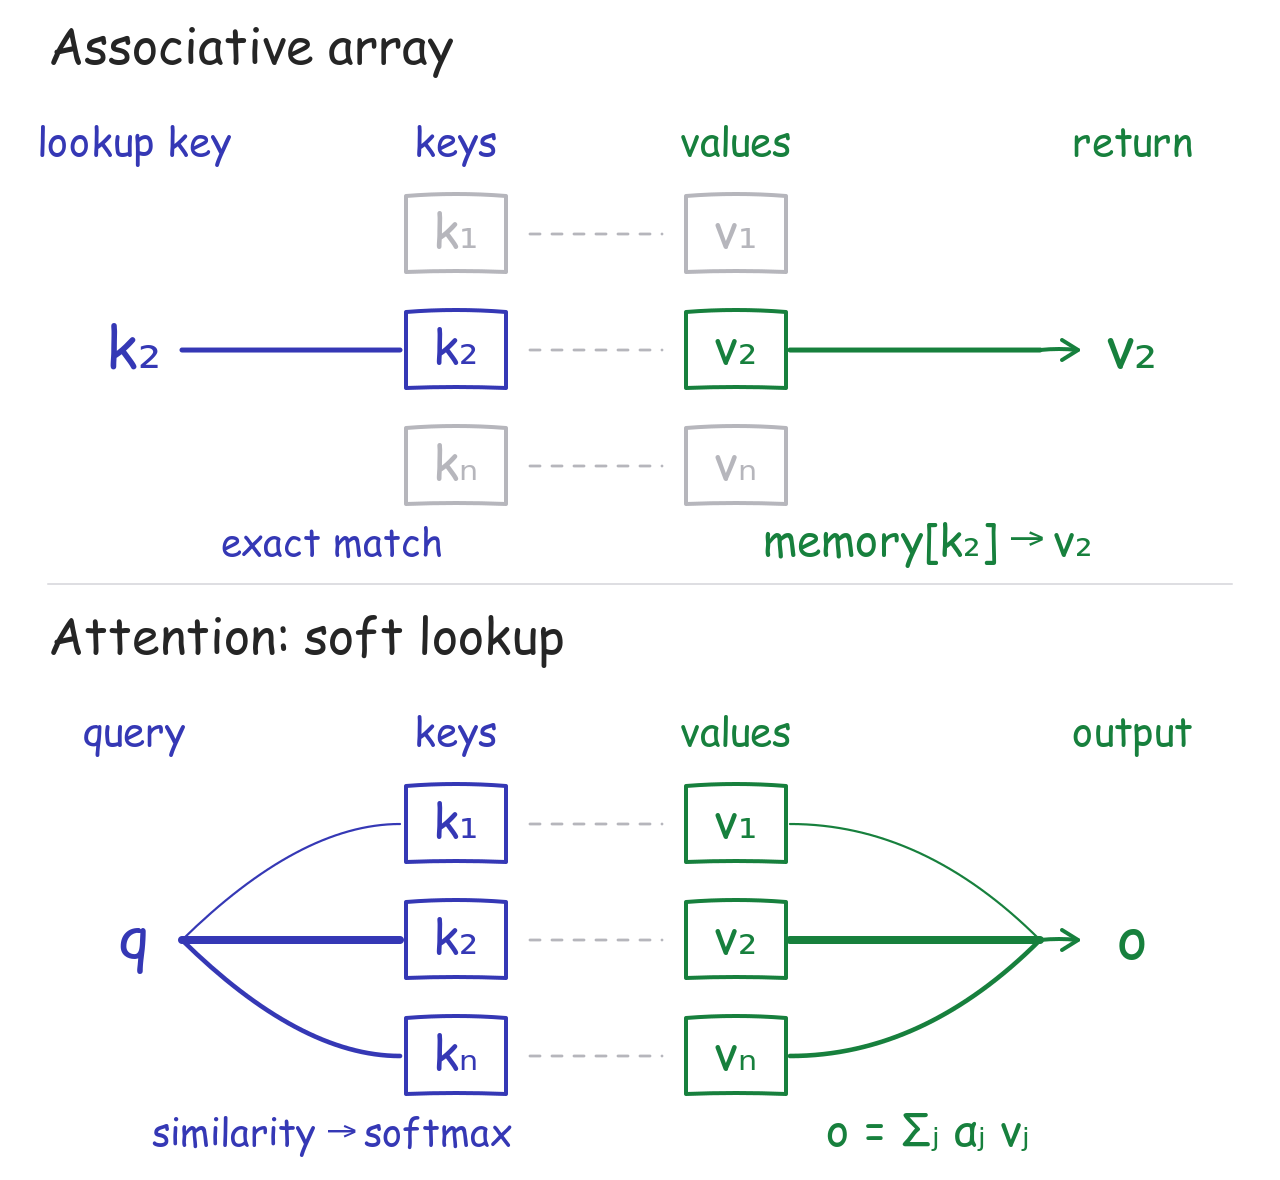
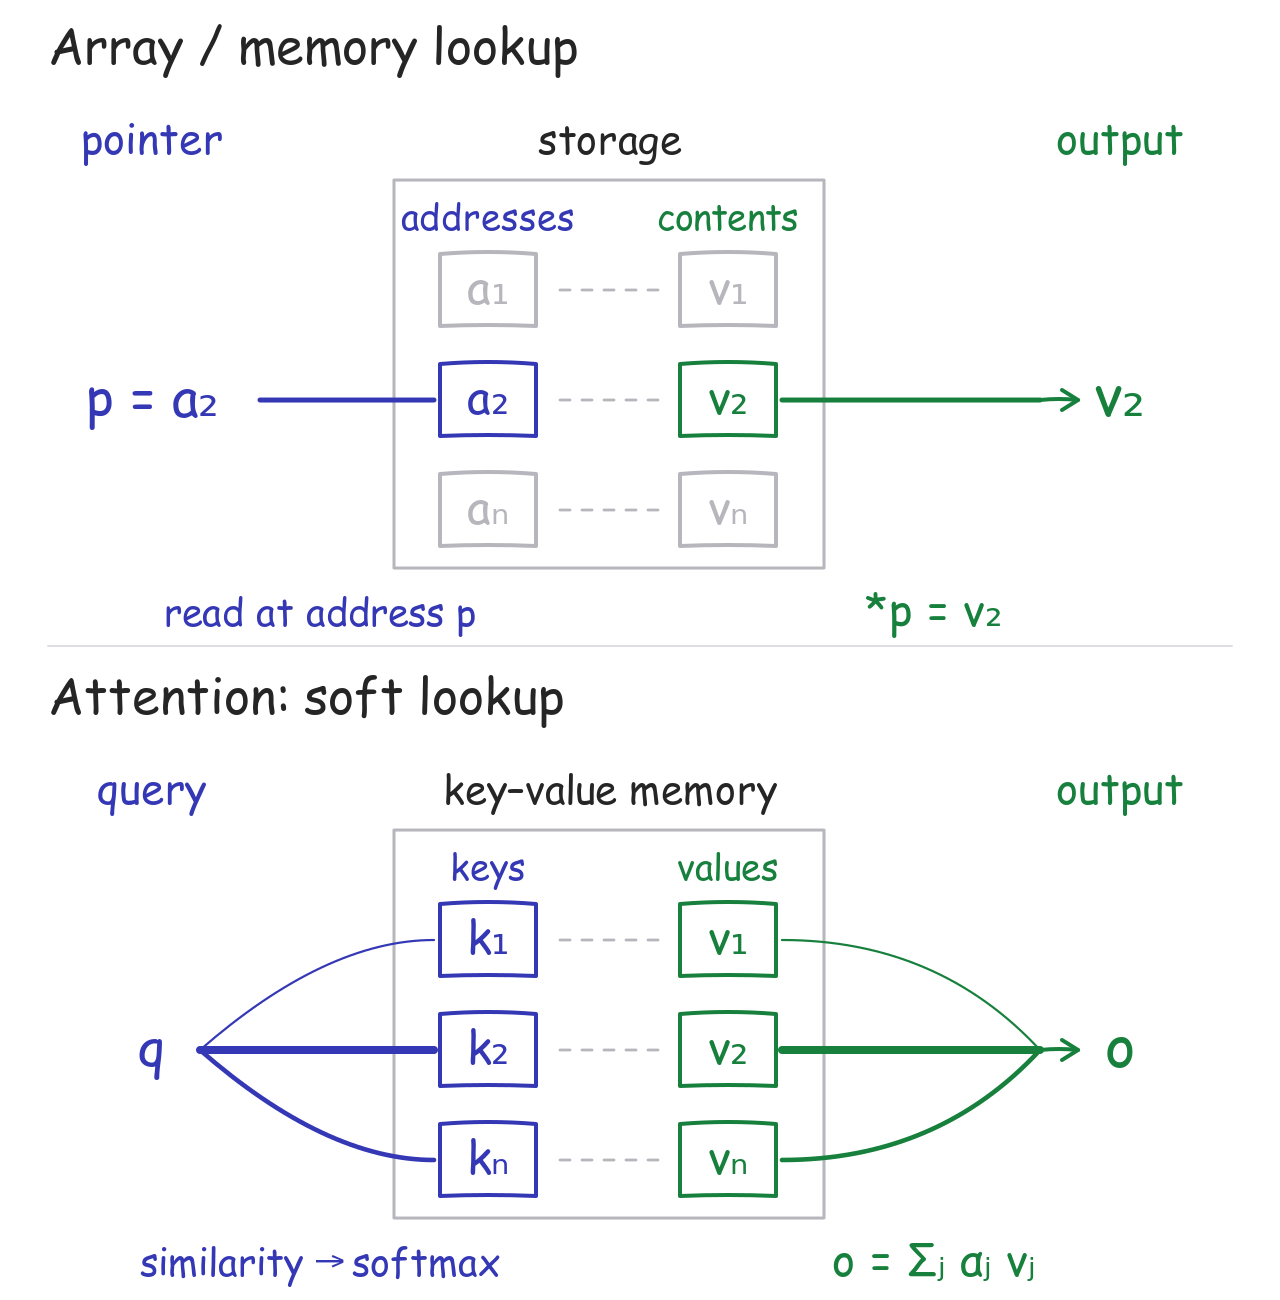
Map pointer and storage roles to attention queries keys and values

diff --git a/tools/draw_series_figures.py b/tools/draw_series_figures.py
@@ -145,32 +145,34 @@ def convex():
 
 
 def array_attention():
-    s = start('An associative array lookup and an attention lookup',
-              'Two aligned flows use paired keys and values. An associative array retrieves v 2 by exact matching k 2. Attention compares query q with all keys and softly combines their paired values into output o. Keys and values are associated entries; the connecting lines do not mean that values are computed from keys.', 590)
-    for offset, soft in [(0, False), (295, True)]:
+    s = start('Pointer, storage, and output as a soft lookup',
+              'Two aligned flows compare addressed memory with attention. A pointer p holding address a 2 selects storage contents v 2. Attention uses query q to score stored keys and blend their associated values. The requested address corresponds to the query, stored addresses to keys, and stored contents to values. Storage contains both the addressing scheme and its associated contents; the attention output is a weighted blend, not necessarily one stored value.', 650)
+    for offset, soft in [(0, False), (325, True)]:
         s.append(f'<g transform="translate(0 {offset})">')
-        text(s, 24, 32, 'Attention: soft lookup' if soft else 'Associative array', size=25, anchor='start')
-        for x, label, color in [(67, 'query' if soft else 'lookup key', BLUE),
-                                 (228, 'keys', BLUE), (368, 'values', GREEN),
-                                 (566, 'output' if soft else 'return', GREEN)]:
-            text(s, x, 78, label, color, 20)
+        text(s, 24, 32, 'Attention: soft lookup' if soft else 'Array / memory lookup', size=25, anchor='start')
+        text(s, 76, 77, 'query' if soft else 'pointer', BLUE, 21)
+        text(s, 305, 77, 'key–value memory' if soft else 'storage', size=20)
+        text(s, 560, 77, 'output', GREEN, 21)
+        path(s, 'M197 90 H412 V284 H197 Z', '#b6b6bc', 1.5)
+        text(s, 244, 115, 'keys' if soft else 'addresses', BLUE, 18)
+        text(s, 364, 115, 'values' if soft else 'contents', GREEN, 18)
         widths = [1.1, 4, 2.3] if soft else [0, 2.5, 0]
-        for j, (y, sub) in enumerate(zip([117, 175, 233], ['₁', '₂', 'ₙ'])):
+        for j, (y, sub) in enumerate(zip([145, 200, 255], ['₁', '₂', 'ₙ'])):
             active = widths[j] > 0
             color_k, color_v = (BLUE, GREEN) if active else (FAINT, FAINT)
             if active:
-                path(s, f'M91 175 Q150 {y} 200 {y}', BLUE, widths[j])
-                path(s, f'M395 {y} Q462 {y} 520 175', GREEN, widths[j])
-            box(s, 203, y-19, 50, 38, ['k'+sub], color_k, size=24)
-            path(s, f'M265 {y} H331', FAINT, 1.4, dash=True)
-            box(s, 343, y-19, 50, 38, ['v'+sub], color_v, size=24)
-        arrow(s, 520, 175, 539, 175, GREEN)
-        text(s, 67, 184, 'q' if soft else 'k₂', BLUE, 29)
-        text(s, 566, 184, 'o' if soft else 'v₂', GREEN, 29)
-        text(s, 166, 278, 'similarity → softmax' if soft else 'exact match', BLUE, 19)
-        text(s, 464, 278, 'o = Σⱼ αⱼ vⱼ' if soft else 'memory[k₂] → v₂', GREEN, 22)
+                path(s, f'M{100 if soft else 130} 200 Q163 {y} 217 {y}', BLUE, widths[j])
+                path(s, f'M391 {y} Q469 {y} 520 200', GREEN, widths[j])
+            box(s, 220, y-18, 48, 36, [('k' if soft else 'a')+sub], color_k, size=23)
+            path(s, f'M280 {y} H329', FAINT, 1.4, dash=True)
+            box(s, 340, y-18, 48, 36, ['v'+sub], color_v, size=23)
+        arrow(s, 520, 200, 539, 200, GREEN)
+        text(s, 76, 208, 'q' if soft else 'p = a₂', BLUE, 26)
+        text(s, 560, 208, 'o' if soft else 'v₂', GREEN, 29)
+        text(s, 160, 313, 'similarity → softmax' if soft else 'read at address p', BLUE, 19)
+        text(s, 467, 313, 'o = Σⱼ αⱼ vⱼ' if soft else '*p = v₂', GREEN, 22)
         s.append('</g>')
-    path(s, 'M24 292 H616', '#dedee2', 1)
+    path(s, 'M24 323 H616', '#dedee2', 1)
     save(s, 'array-vs-attention.png')
 
 

diff --git a/_posts/2026-08-30-transformer-three-design-choices.md b/_posts/2026-08-30-transformer-three-design-choices.md
@@ -22,9 +22,9 @@ with the softmax replacing the hard $\arg\max$ by a weighted average. In `memory
 
 <figure class="concept-figure">
   <a href="{{ '/assets/images/transformer/array-vs-attention.png' | relative_url }}">
-    <img src="{{ '/assets/images/transformer/array-vs-attention.png' | relative_url }}" width="640" height="590" loading="lazy" alt="An associative array matches the lookup key k 2 exactly and returns its paired value v 2. Attention compares a query with the keys and returns a softmax-weighted sum of their paired values. Line thickness indicates attention weight.">
+    <img src="{{ '/assets/images/transformer/array-vs-attention.png' | relative_url }}" width="640" height="650" loading="lazy" alt="A pointer p requests stored address a 2 and returns its contents v 2. In attention, the query plays the requested-address role, keys play stored-address roles, and values are the stored contents. Attention produces a weighted blend of the values.">
   </a>
-  <figcaption>Both retrieve content associated with keys. An associative array returns the matching entry; attention blends values using query–key similarity.</figcaption>
+  <figcaption>Requested address → query; stored addresses → keys; stored contents → values. Storage holds the address–content pairs. A pointer reads one value; attention returns a weighted blend.</figcaption>
 </figure>
 
 ### From classical theory of computation
